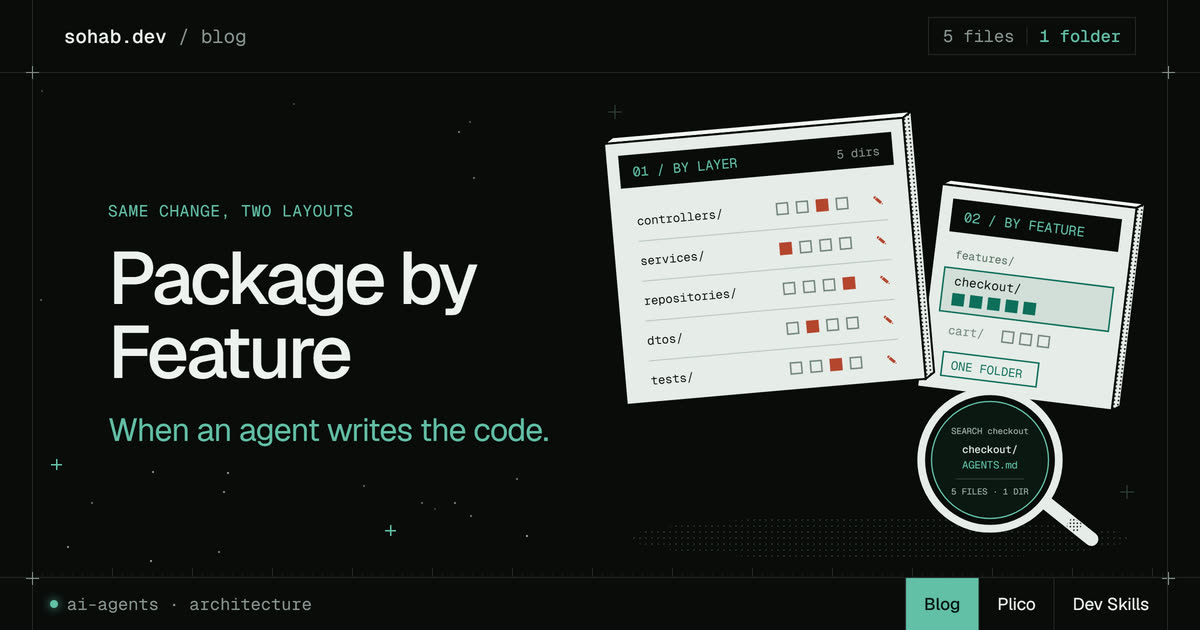
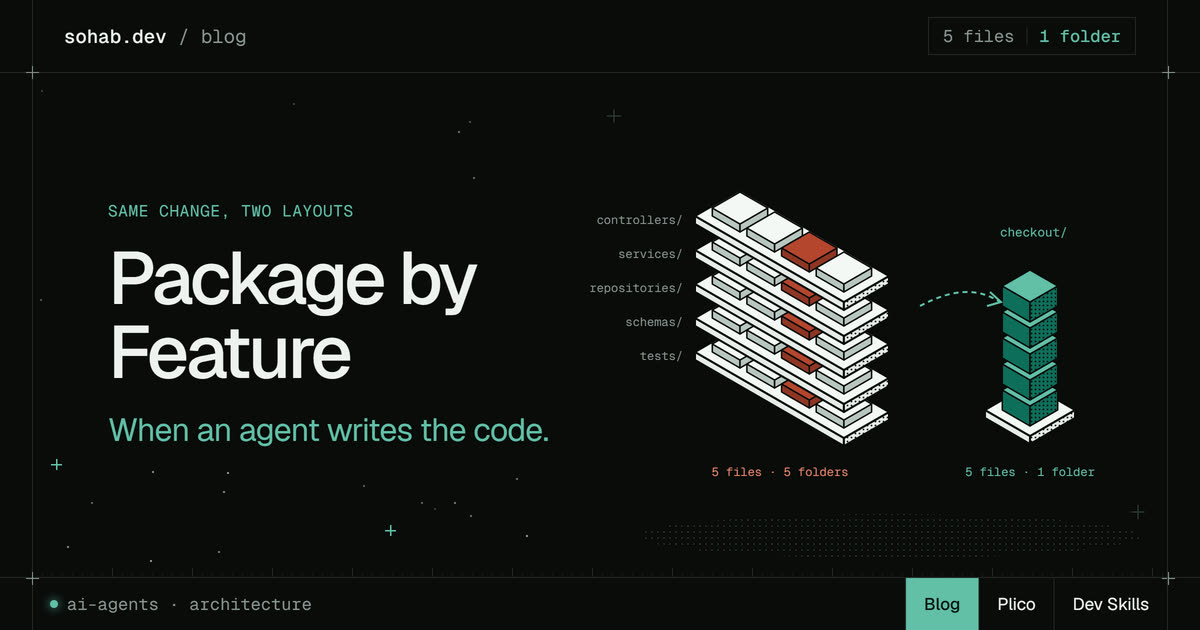
Give each cover its own illustration
Harness engineering and package-by-feature get new isometric drawings
instead of reusing the eval cover's cards. kit/draw.mjs holds the
drawing helpers; render.mjs runs a post's illustration.mjs. Also fixes
a broken closing tag in the eval illustration.

Changed region(s): [[0.4933, 0.181, 0.9558, 0.8746]]

diff --git a/content/covers/README.md b/content/covers/README.md
@@ -6,8 +6,9 @@ Every post cover uses one design: the Plico update-card language, adapted for a 
 content/covers/
   kit/template.html            the fixed design; fills in a card's data
   kit/render.mjs               renders a card to content/public/images/blog/<slug>.jpg
+  kit/draw.mjs                 helpers for drawing an illustration
   <slug>/card.json             the post's text
-  <slug>/illustration.svg      the post's picture, 568x482
+  <slug>/illustration.mjs      the post's picture, 568x482 (or a hand-made illustration.svg)
 ```
 
 The folder name is the post's slug and the output file's name, so the post's frontmatter is `cover: /images/blog/<slug>.jpg`.
@@ -15,7 +16,7 @@ The folder name is the post's slug and the output file's name, so the post's fro
 ## Make one
 
 1. Copy the closest existing folder to `content/covers/<slug>/`.
-2. Edit `card.json` and redraw `illustration.svg` (see the rules below).
+2. Edit `card.json` and draw a new illustration for this post (see below).
 3. Render, then open the JPEG and look at it at full size and at thumbnail size:
 
    ```sh
@@ -46,17 +47,35 @@ The folder name is the post's slug and the output file's name, so the post's fro
 | `topics` | Bottom left | The post's main tags. |
 | `tabs` | Bottom right | Tools or projects the post uses. "Blog" is always added first and highlighted. |
 | `seed` | Optional | Changes the star field. Defaults to 11. |
-| `illustration` | Optional | Another SVG file name in the folder. |
 
-## Illustration rules
+## The illustration
 
-The SVG uses `viewBox="0 0 568 482"` and `font-family="Geist Mono,monospace"`. It sits to the right of the title. Start from an existing one and keep its parts:
+Every post gets its own drawing, made for that post's idea. Don't reuse another post's picture with new labels:
 
-- **Two cards**, tilted in opposite directions: a large one at `translate(14 52) rotate(-5)`, about 300x262, and a small one at `translate(352 92) rotate(7)`, about 196x204. Each has a lighter top face, a side face with the `#dots` halftone, a 2px ink outline, and a dark header bar with an accent label `01 / NAME`.
-- **A magnifier** at `translate(400 368) scale(.86)`, showing four short lines from the story. Keep each line to about 15 characters, or it touches the ring.
-- **A dotted shadow** ellipse under everything, and two small plus marks.
-- **A single symbol per post**, repeated: dots for trials, squares for files, pills for harness parts. Filled green means good or grouped, red means a failure or a problem, an empty grey outline means not involved.
-- **Real content only.** Labels, numbers and names come from the post. The cover should still make sense after someone has read it.
+| Post | Drawing |
+| --- | --- |
+| eval-driven-development | Trial cards with pass dots, a baseline card, and a magnifier on the failing trial |
+| harness-engineering | A dark MODEL cube on a cream harness plate, guide and sensor blocks wired to it, and a ratchet wheel |
+| package-by-feature | Five layer slabs with checkout's file in red on each, and the same five files as one green `checkout/` column |
+
+What changes is the picture. What stays is how it's drawn:
+
+- **Objects, not diagrams.** Cream solids with a 2px ink outline: a light top face, plain front faces, and the `#dots` halftone on the right-hand face. Isometric boxes or tilted cards both work.
+- **One dark hero object** when there's a central thing, such as the model: a dark face with an accent outline and the `#adots` halftone.
+- **Mono labels** in Geist Mono: accent on dark, ink on cream, muted for captions. Leader lines end in a dot.
+- **Colour means something.** Green is good, grouped or fixed. Red is failing, scattered or regressed. Grey is not involved. Accent marks what the post is about.
+- **A dotted shadow** on the floor under the drawing, and two small plus marks.
+- **Real content only.** Labels, numbers and names come from the post or its figures. The cover should still make sense after someone has read the post.
+- **Readable as a thumbnail.** At a third of its size, the shape should still tell the story without the labels.
+
+### Drawing it
+
+The drawing is 568x482 and sits to the right of the title. Either:
+
+- write `<slug>/illustration.mjs`, which builds the SVG with the helpers in `kit/draw.mjs` and default-exports it (see harness-engineering and package-by-feature), or
+- hand-write `<slug>/illustration.svg` with `viewBox="0 0 568 482"` and `font-family="Geist Mono,monospace"` (see eval-driven-development).
+
+`render.mjs` uses the `.mjs` when both exist. `draw.mjs` has the colours (`C`), the `svg` wrapper with the halftone patterns, an isometric projection (`isoAt`), `box`, text on a box's faces, `tag`, `lead`, `shadow` and `plus`. Draw boxes back to front.
 
 | Colour | Hex | Use |
 | --- | --- | --- |
